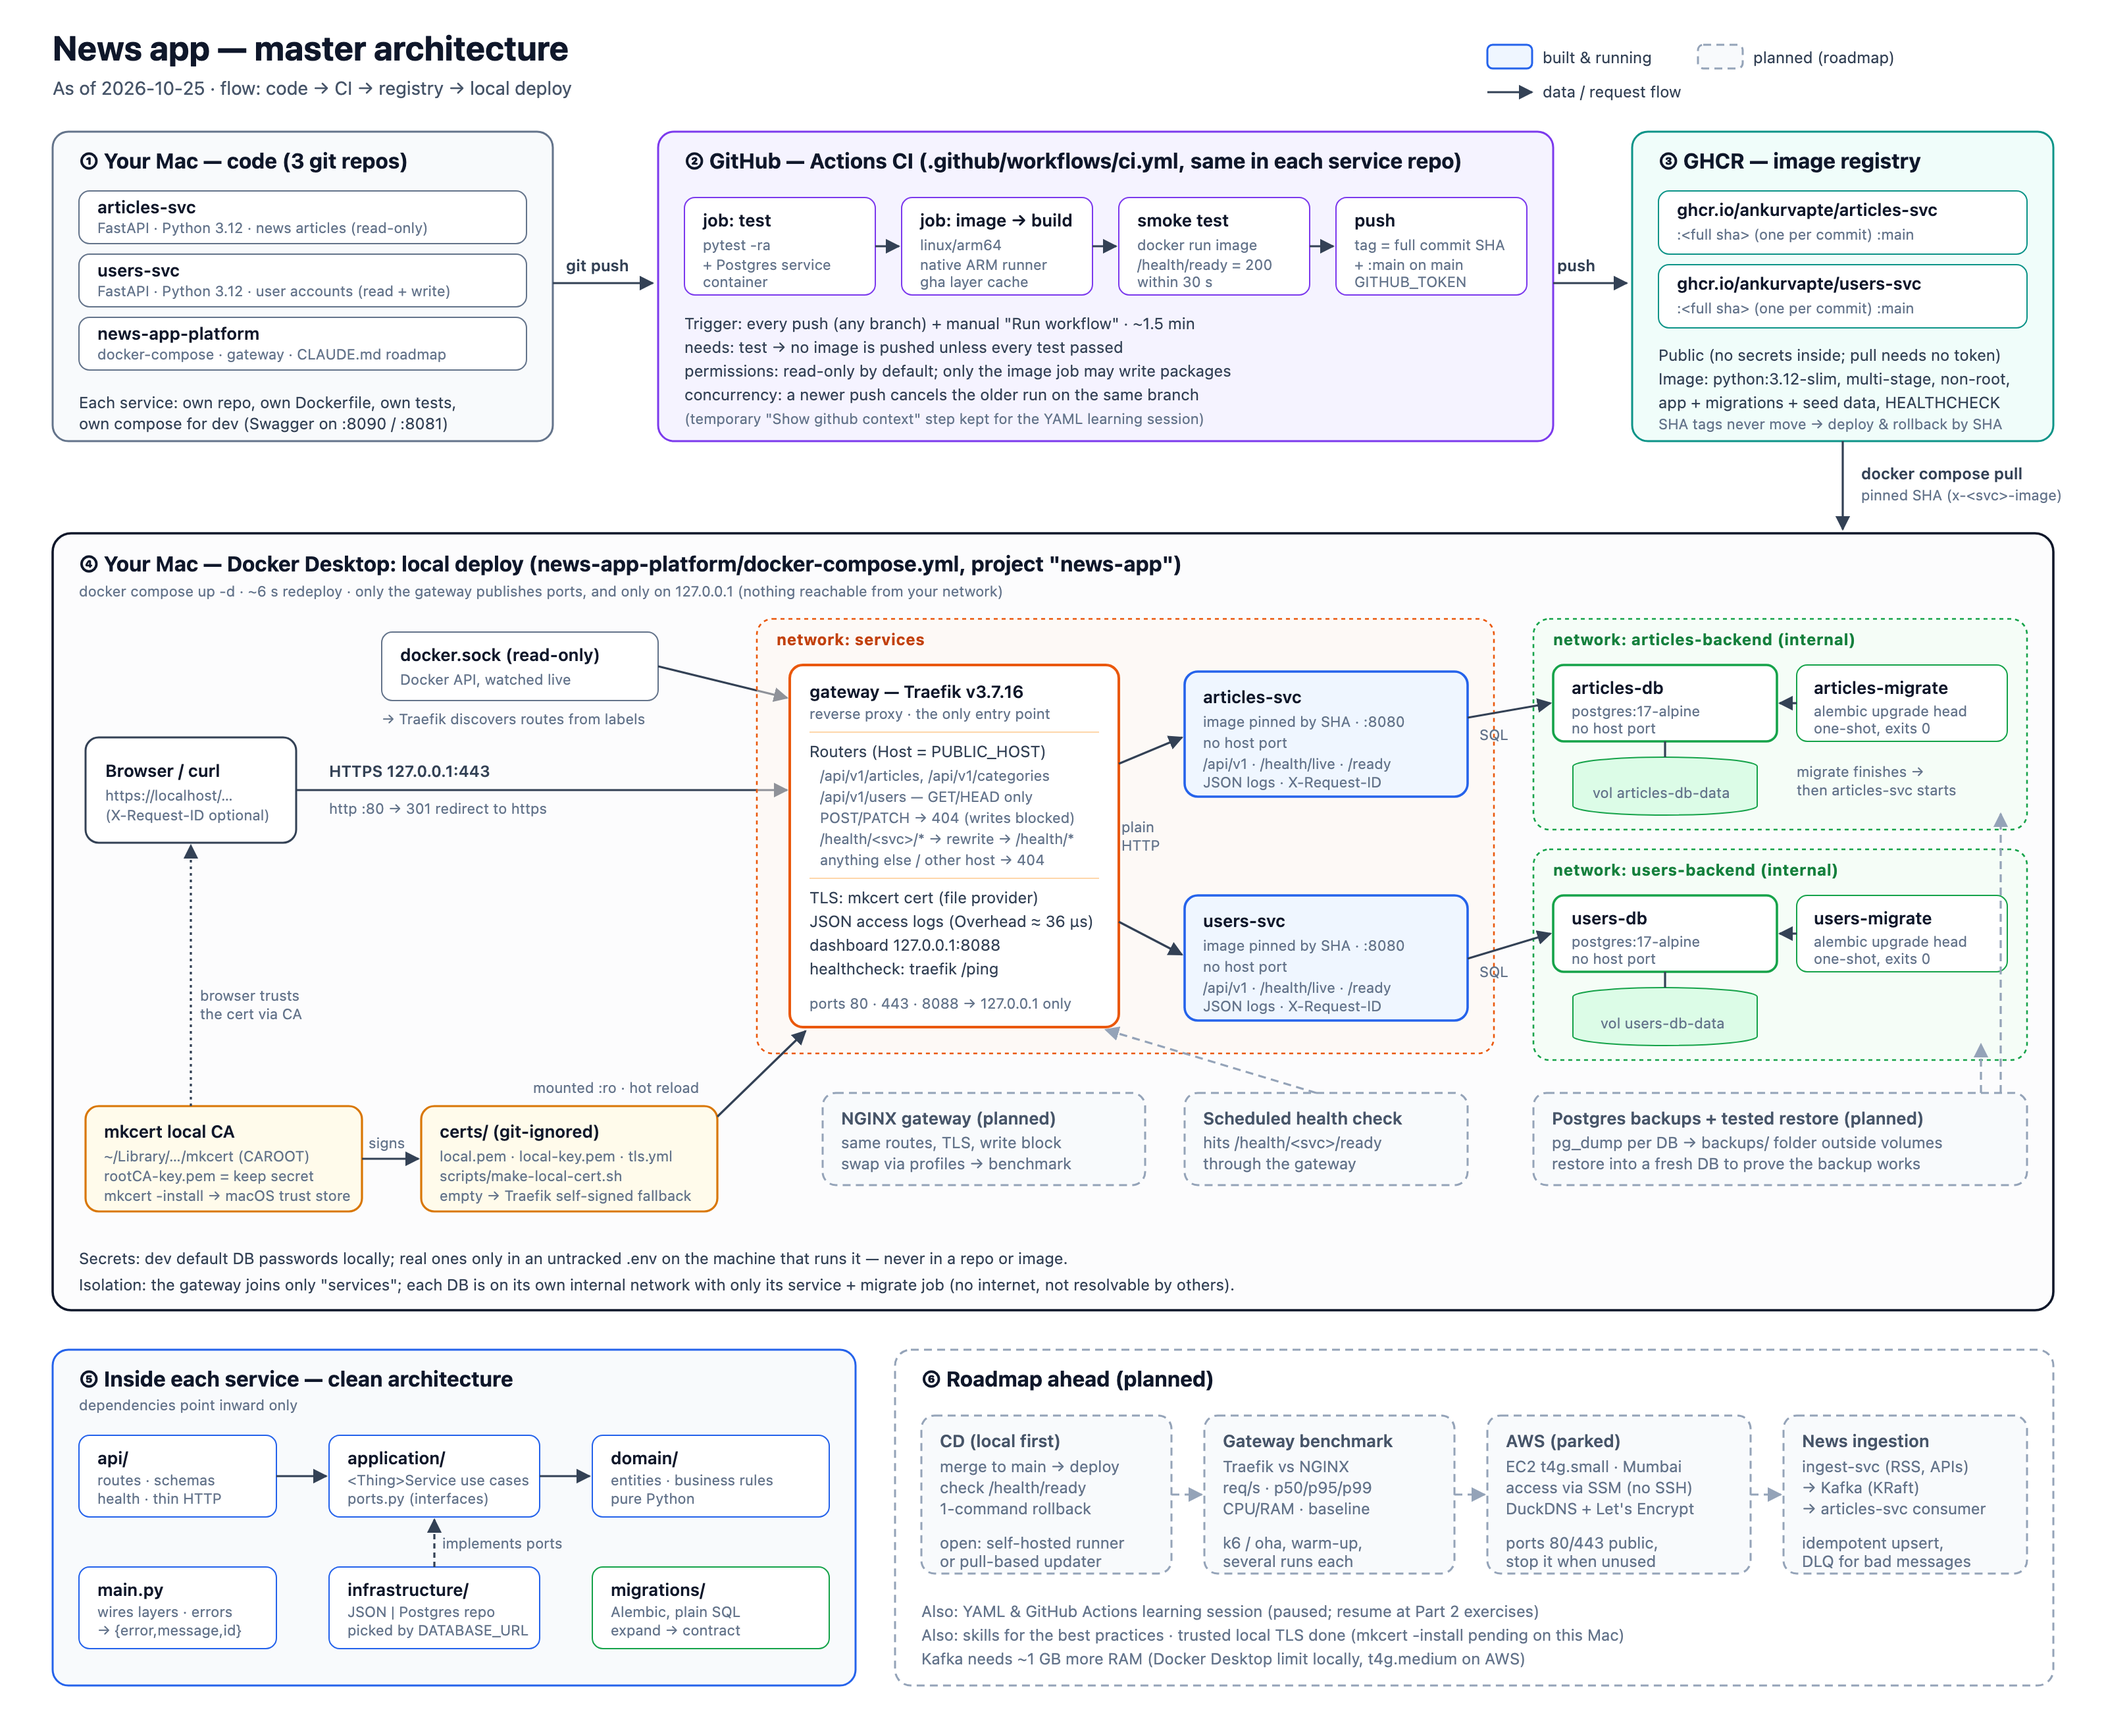
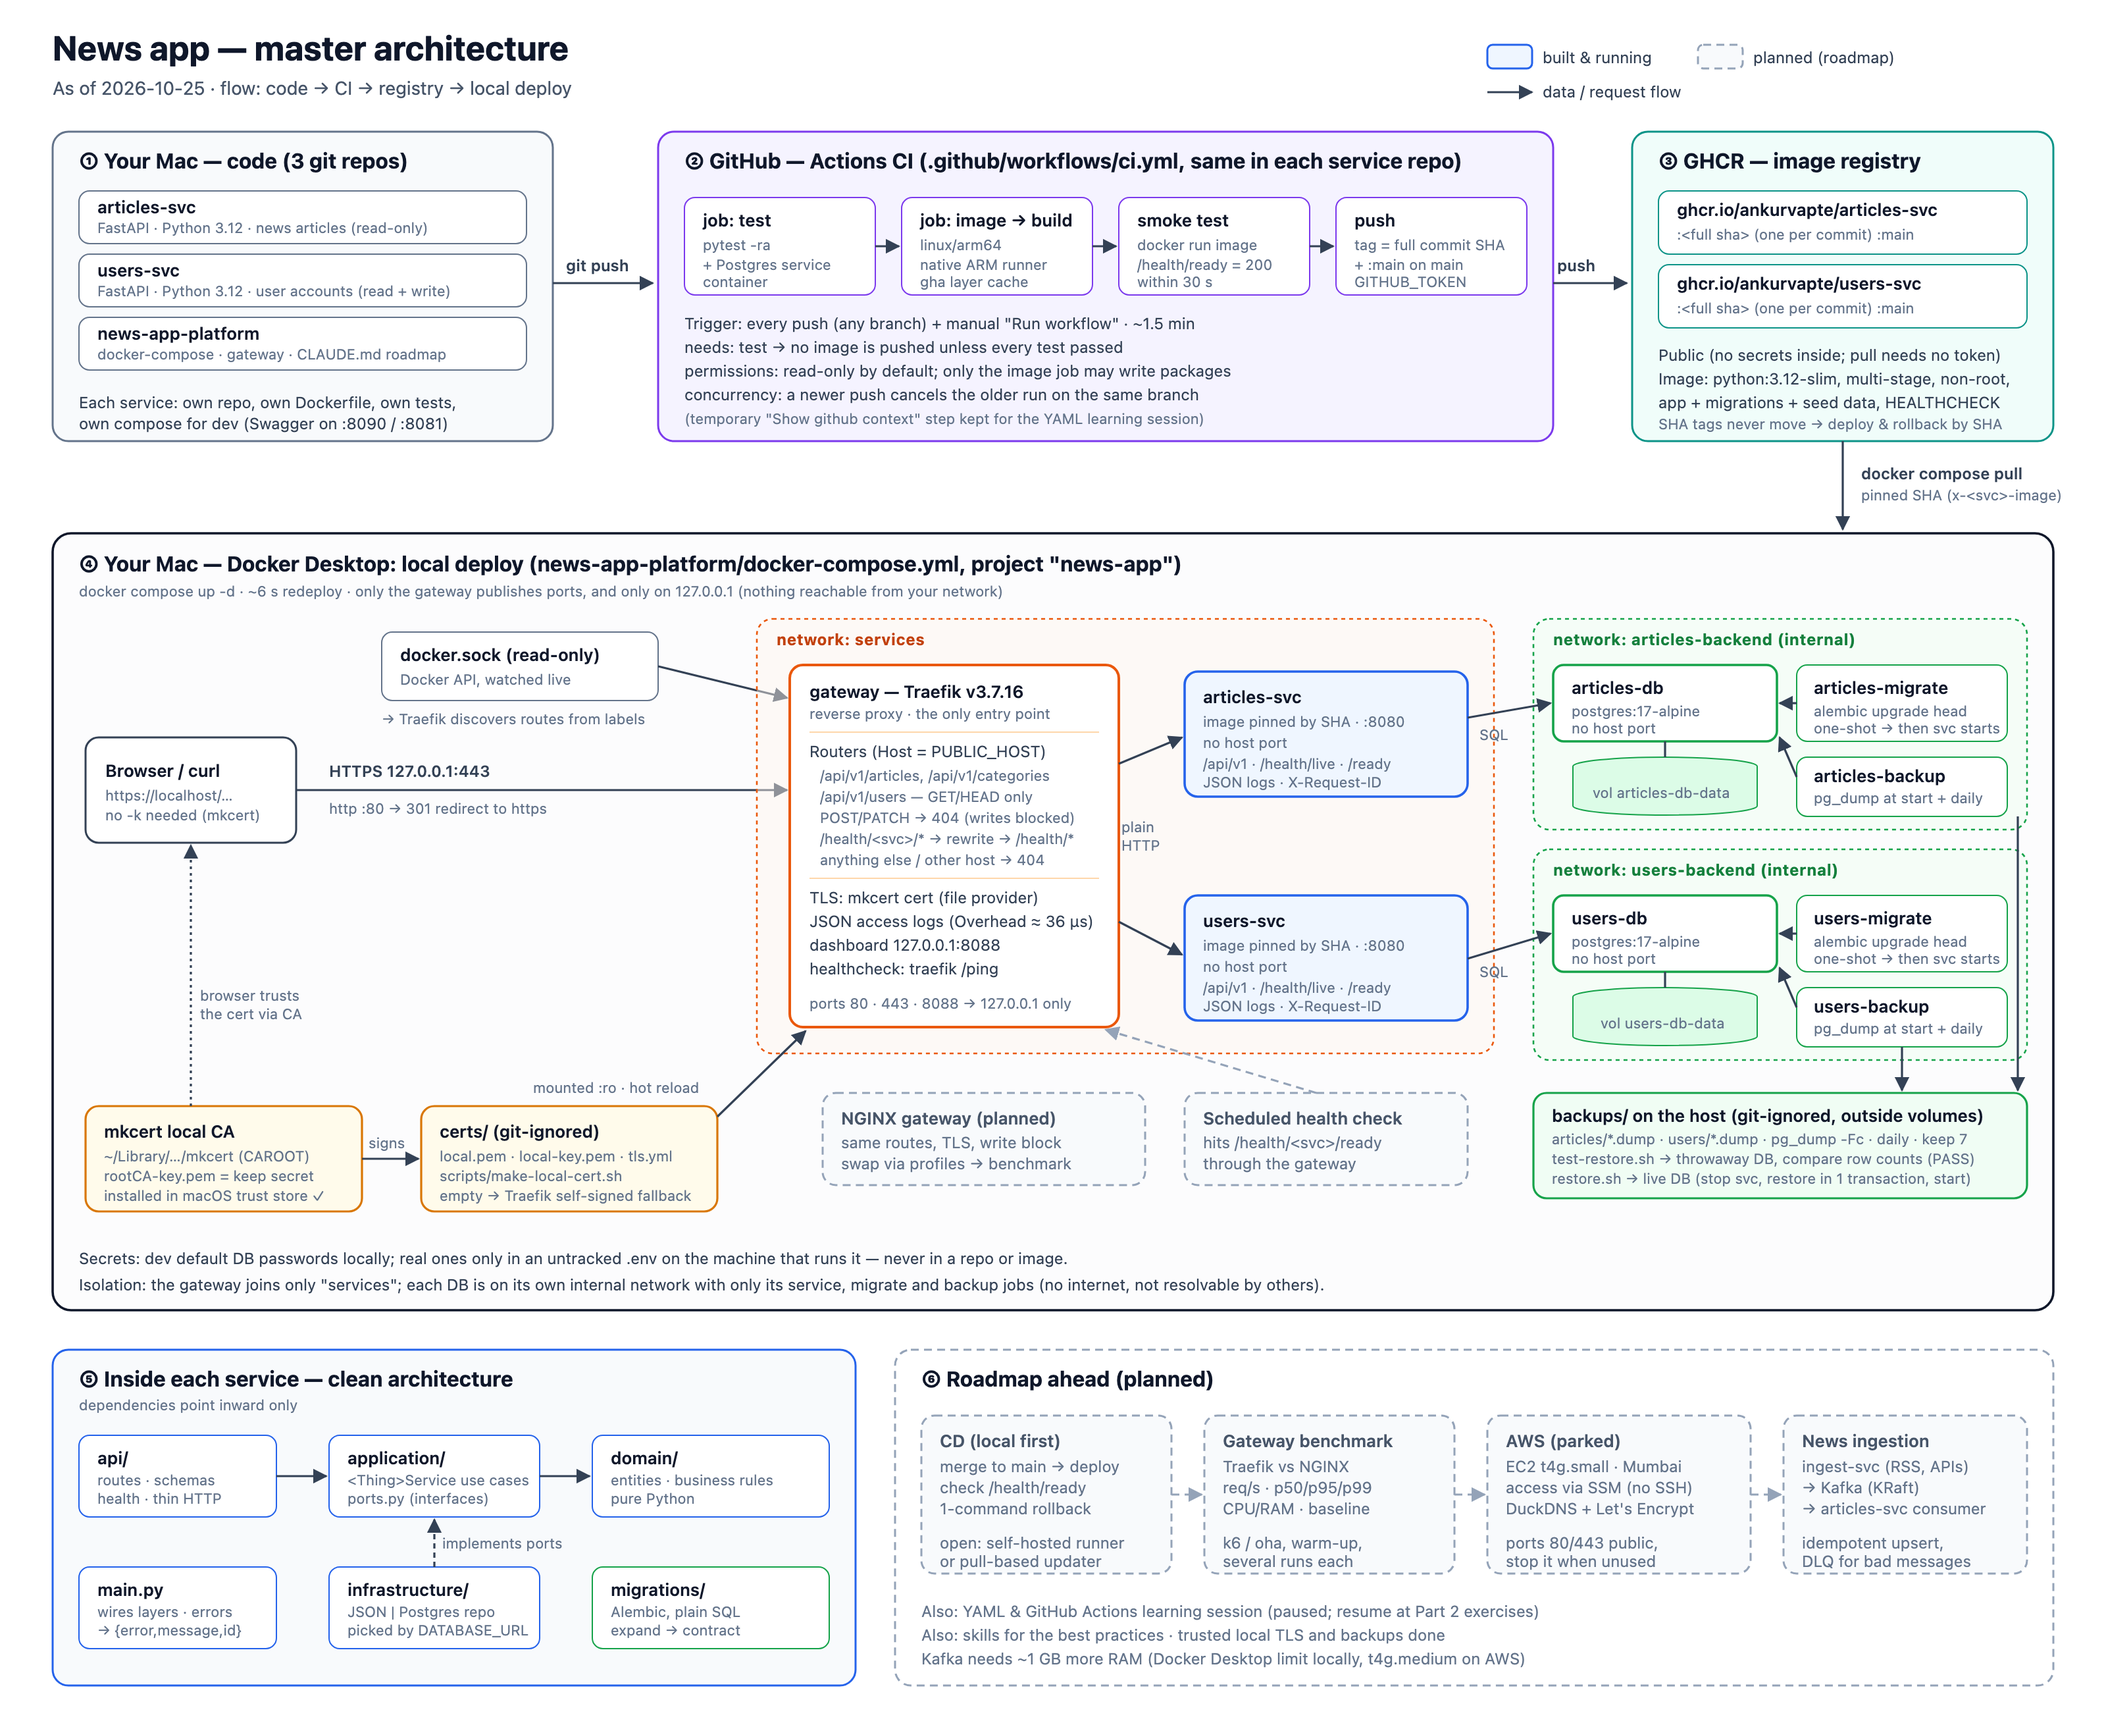
Back up each Postgres database daily and test the restore
- articles-backup / users-backup (postgres:17-alpine, non-root, own
  backend network only) run scripts/pg-backup.sh at start and every
  BACKUP_INTERVAL_SECONDS: pg_dump -Fc into git-ignored backups/<svc>/
  on the host, outside the volumes, keeping the newest BACKUP_KEEP.
- scripts/test-restore.sh restores the newest dump into a throwaway
  Postgres with no network and compares per-table row counts with live.
- scripts/restore.sh restores into the live DB: stops the service,
  pg_restore --clean in one transaction, starts it again.
- README: curl works without -k now that the mkcert CA is trusted;
  Python needs SSL_CERT_FILE. Diagram updated (backups built, TLS done).

diff --git a/README.md b/README.md
@@ -17,6 +17,8 @@ Source: [`docs/architecture.svg`](docs/architecture.svg), picture: [`docs/archit
 | `docker-compose.yml` | Runs the whole app from pinned GHCR images behind the Traefik gateway |
 | `docs/architecture.svg` | Master architecture diagram (+ `.png`); update it with every architecture change |
 | `scripts/make-local-cert.sh` | Creates the trusted local HTTPS certificate (mkcert) in `certs/` |
+| `scripts/pg-backup.sh` | Backup job (runs inside `articles-backup` / `users-backup`) |
+| `scripts/test-restore.sh`, `scripts/restore.sh` | Prove a backup restores; restore one into the live database |
 | NGINX gateway | *(planned)* Second gateway option, to benchmark against Traefik |
 | Kafka (in `docker-compose.yml`) | *(planned)* Message broker between `ingest-svc` and articles-svc for news from external sources |
 
@@ -42,13 +44,13 @@ No service repo needs to be cloned: compose pulls the pinned images from GHCR.
 ```bash
 docker compose up -d
 docker compose ps
-curl -k https://localhost/health/articles/ready
-curl -k https://localhost/health/users/ready
-curl -k "https://localhost/api/v1/articles?page_size=2"
+curl https://localhost/health/articles/ready
+curl https://localhost/health/users/ready
+curl "https://localhost/api/v1/articles?page_size=2"
 docker compose down        # add -v to also delete both database volumes
 ```
-- `-k`: needed until you set up trusted local HTTPS (below); without it Traefik
-  serves its self-signed default certificate, which curl and browsers reject.
+- Needs trusted local HTTPS (below). Without it Traefik serves its self-signed
+  default certificate, and curl needs `-k` (browsers show a warning).
 - Traefik dashboard (routers, services, middlewares): http://localhost:8088/dashboard/
 - All three ports are bound to `127.0.0.1`, so nothing outside this machine can reach them.
 
@@ -69,12 +71,38 @@ mkcert -install
 ```
 - The certificate lands in `certs/` (git-ignored, mounted read-only into the gateway).
   Delete `certs/` and Traefik falls back to its self-signed default.
-- Browsers (Safari, Chrome) use the macOS trust store, so they show no warning.
-  curl and Python may use their own CA bundles instead; if they still complain,
-  pass the CA explicitly:
-  `curl --cacert "$(mkcert -CAROOT)/rootCA.pem" https://localhost/...`
+- Browsers and macOS's `/usr/bin/curl` use the macOS trust store, so they just work.
+  Python (and Homebrew curl) use their own CA list; point them at mkcert's CA:
+  `SSL_CERT_FILE="$(mkcert -CAROOT)/rootCA.pem" python3 ...`
+  or `curl --cacert "$(mkcert -CAROOT)/rootCA.pem" https://localhost/...`
 - Keep `$(mkcert -CAROOT)/rootCA-key.pem` private: anyone with it can create
   certificates this Mac trusts for any site. `mkcert -uninstall` removes the CA.
+
+## Backups and restore
+```
+ articles-db ◀─pg_dump─ articles-backup ─▶ backups/articles/articles-<UTC time>.dump
+ users-db    ◀─pg_dump─ users-backup    ─▶ backups/users/users-<UTC time>.dump
+                                                │
+            test-restore.sh ─▶ throwaway Postgres (no network) ─▶ compare row counts with live
+            restore.sh      ─▶ live DB (stop service → restore in one transaction → start)
+```
+- `articles-backup` and `users-backup` back up their own database once at start
+  and then every `BACKUP_INTERVAL_SECONDS` (86400 = daily), keeping the newest
+  `BACKUP_KEEP` (7). Each sits only on its database's backend network.
+- Dumps go to `backups/` on the host (git-ignored), outside the Docker volumes, so
+  `docker compose down -v` doesn't delete them. Format: `pg_dump -Fc` (compressed,
+  restorable with `pg_restore`).
+- They only run while Docker is running; a sleeping Mac takes no backups.
+
+```bash
+docker compose exec users-backup pg-backup            # back up now
+ls backups/users                                       # list backups
+./scripts/test-restore.sh users                        # prove the newest one restores (live DB untouched)
+./scripts/restore.sh users backups/users/<file>.dump   # replace live data (asks to confirm)
+docker compose logs users-backup                       # JSON lines: backup written / old backup deleted
+```
+`restore.sh` stops `users-svc` (a few seconds of 503/404 at the gateway), restores
+in a single transaction (a failed restore leaves the old data), then starts it again.
 
 ## Deploy a new version
 1. Push to a service repo; its CI tests, builds and pushes `ghcr.io/ankurvapte/<svc>:<full sha>`.

diff --git a/CLAUDE.md b/CLAUDE.md
@@ -49,7 +49,7 @@ Clean architecture; dependencies point inward only:
 - **Tests:** `test_use_cases.py` is plain unittest (no deps) over the real seed data file. `test_api.py` sets `DATA_FILE` before importing `app.main` (settings load on import) and uses `with TestClient(app)` so `lifespan` runs.
 - **Gateway (platform compose):** Traefik discovers services by `traefik.*` labels (`exposedbydefault=false`); it is the only container with published ports, bound to `127.0.0.1`. Routes match `Host(${PUBLIC_HOST:-localhost})` + path; write methods on users-svc are not routed. Label `$` must be written `$$` in compose.
 - **Docker:** each service's own compose file maps one host port to container port 8080. If that host port is taken, the container gets created without its port binding: free the port, then `docker compose up -d --force-recreate`. Compose `environment:` overrides Dockerfile `ENV`, which overrides `config.py` defaults.
-- **Networks (platform compose):** each database joins only its own `internal: true` network (`<svc>-backend`) shared with its service; services meet on `services`. A new service with a DB gets its own backend network; the gateway and Kafka join `services` only, never a backend network.
+- **Networks (platform compose):** each database joins only its own `internal: true` network (`<svc>-backend`) shared with its service; services meet on `services`. A new service with a DB gets its own backend network; each DB's `<svc>-migrate` and `<svc>-backup` jobs join only that backend network; the gateway and Kafka join `services` only, never a backend network.
 
 ## Container-first checklist for every change
 1. One business capability per service. Users, comments, search etc. are separate services.
@@ -84,7 +84,7 @@ Clean architecture; dependencies point inward only:
   - [x] Traefik gateway (`traefik:v3.7.16`) as the only entry: ports bound to `127.0.0.1`, HTTP → HTTPS, routes by `Host(PUBLIC_HOST)` + path, `/health/<svc>/*` rewritten to each service's `/health/*`; services and DBs publish no ports
   - [x] users-svc writes blocked at the gateway (only GET/HEAD routed)
   - [x] Trusted local TLS: `scripts/make-local-cert.sh` (mkcert) writes `certs/` (git-ignored), loaded by Traefik's file provider with hot reload; empty `certs/` falls back to the self-signed default
-  - [ ] Postgres backups (`pg_dump` per DB to a folder outside the volumes) and a tested restore
+  - [x] Postgres backups: `<svc>-backup` jobs (postgres:17-alpine, non-root) run `scripts/pg-backup.sh` at start + daily, keep 7, `pg_dump -Fc` to git-ignored `backups/<svc>/` outside the volumes; `scripts/test-restore.sh` proves a dump restores (throwaway DB, row counts match live); `scripts/restore.sh` restores into live in one transaction (tested after simulated damage)
   - [ ] Health check through the gateway on a schedule (a script or a small uptime container hitting `/health/<svc>/ready`)
   - Secrets: dev default passwords are fine locally; real ones go in an untracked `.env` on whatever machine runs it, never in a repo
 - [ ] CD (local first): merge to `main` deploys automatically, checks `/health/ready` through the gateway, one-command rollback to the previous image tag
